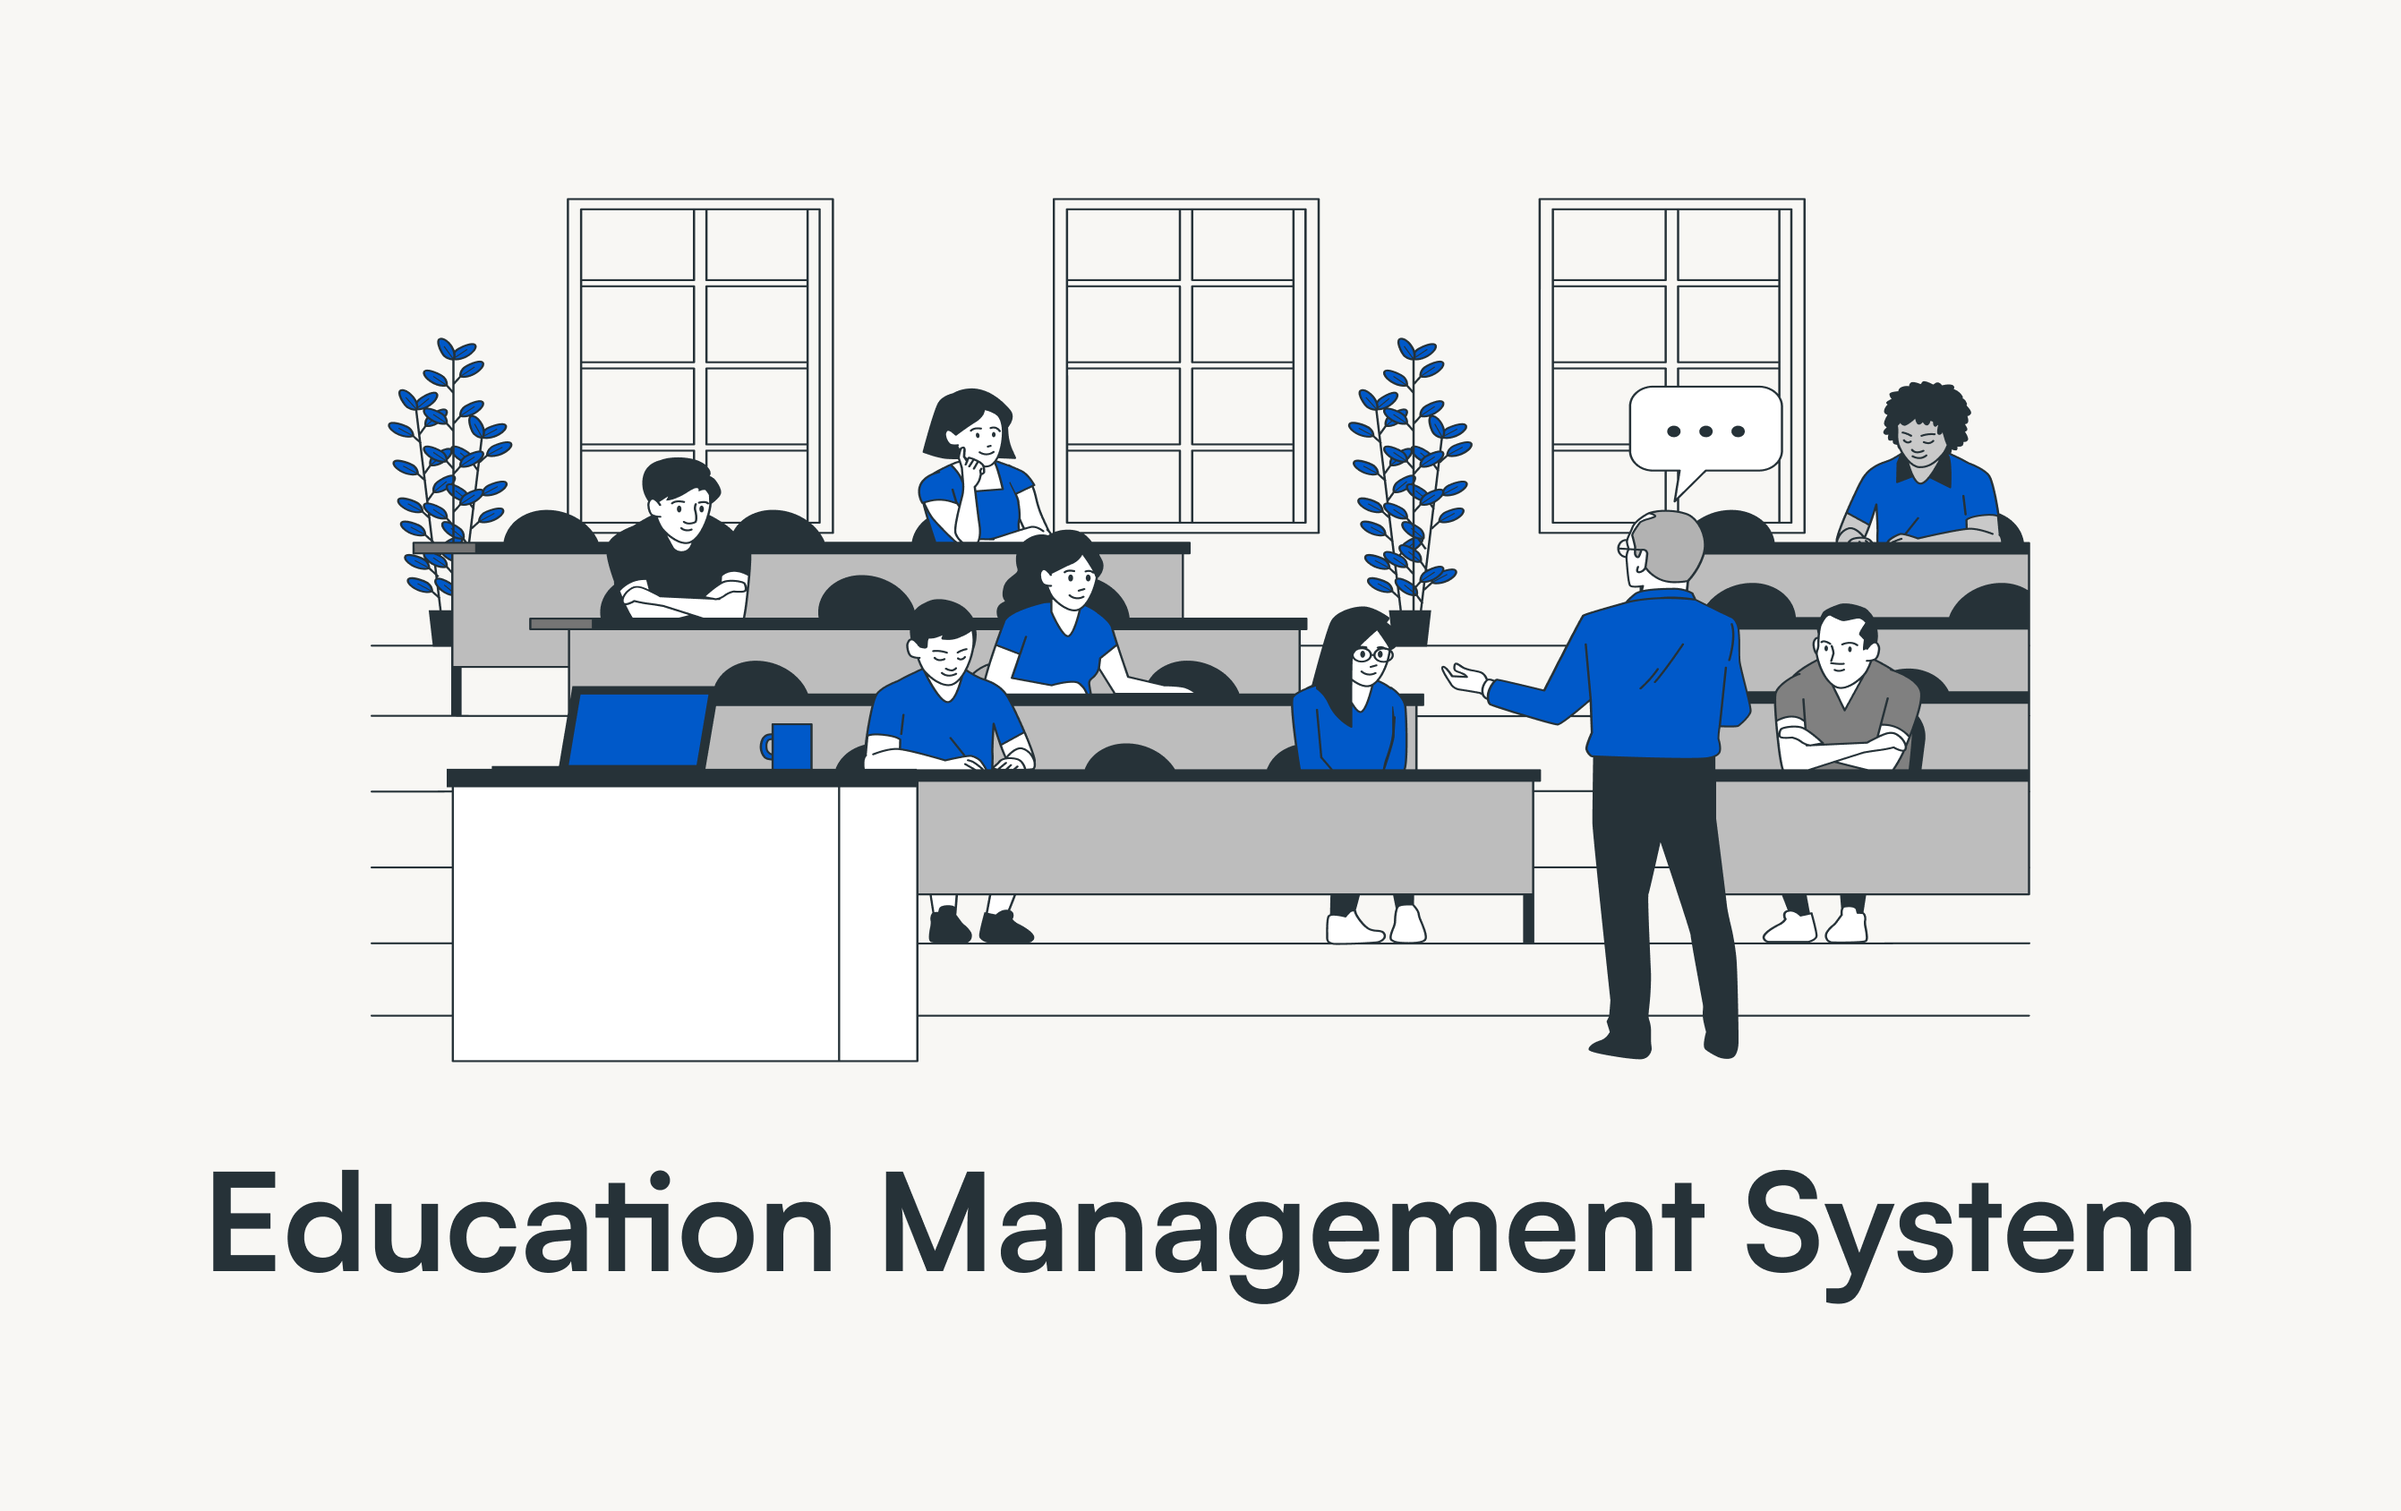
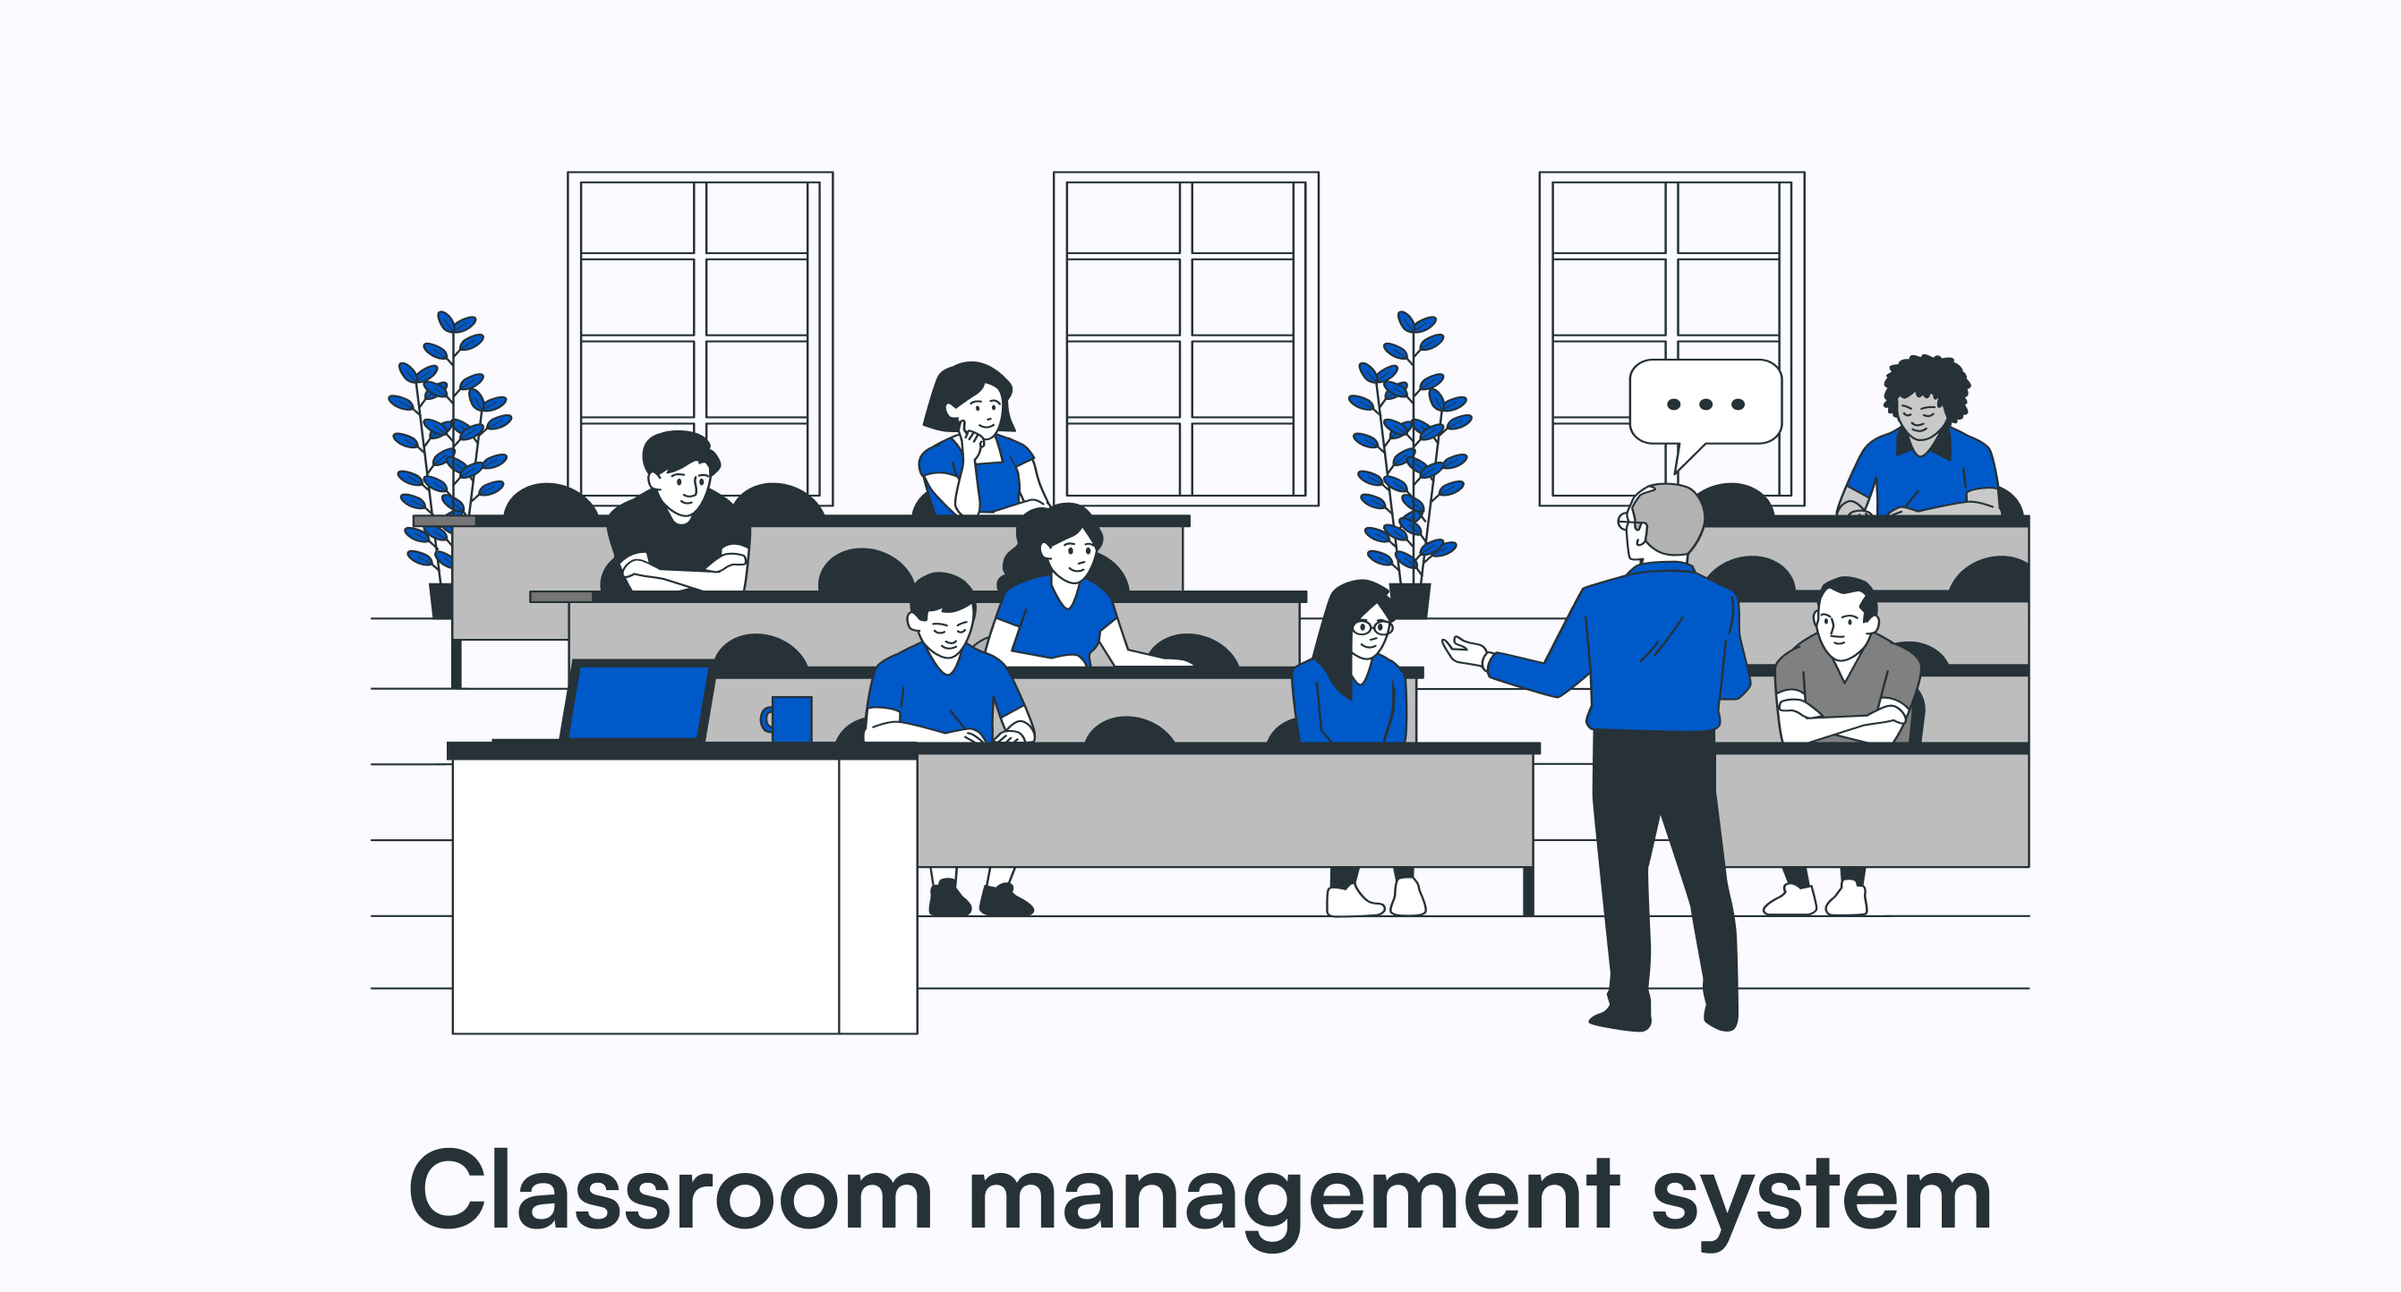
Checking bullet points

diff --git a/projects/campushub_mini.html b/projects/campushub_mini.html
@@ -281,7 +281,7 @@
               management, leading to missed announcements, limited
               student-faculty collaboration, communication gaps and overall a
               poor management system. To challenge is to come up with a solution
-              that addresses the needs of the educational institutions
+              that addresses different needs of educational institutions.
             </p>
           </div>
           <div class="col-xs-12 col-sm-6">
@@ -292,6 +292,83 @@
             />
           </div>
         </div>
+
+        <div class="row">
+          <div class="col-xs-12 col-sm-6">
+            <h2>Design Process</h2>
+            <p>
+              I do not have a strict process, I instead have foundational design
+              principles I adhere to
+            </p>
+          </div>
+          <div class="col-xs-12 col-sm-6">
+            <img
+              class="introimage"
+              src="../assets/img/project images/CampusHub_mini/Campushub Design process.png"
+              alt="Education management system"
+            />
+          </div>
+        </div>
+
+        <div class="row">
+          <div class="col-xs-12">
+            <h2>Research</h2>
+            <p>
+              You can find all my research data in the detailed version, I have
+              presented only the insights here
+            </p>
+          </div>
+          <div class="col-xs-12">
+            <h2>Survey Insights</h2>
+
+            <ul style="list-style: decimal">
+              <li>
+                Colleges on an average use 4 different tools for carrying out
+                different tasks
+              </li>
+              <li>
+                Schools do not use much variety tools because most tasks are
+                offline
+              </li>
+              <li>
+                Even during Covid era(online classes), but much variety of tools
+                were not used in schools
+              </li>
+              <li>
+                Inefficient usage of tools, juggling multiple tools - a single
+                platform is required to carry out multiple activities
+              </li>
+            </ul>
+          </div>
+
+          <div class="col-xs-12">
+            <h2>Competitor Analysis</h2>
+            <img
+              src="../assets/img/project images/CampusHub_mini/Campushub competitors.png"
+              alt="competitors"
+            />
+
+            <ul style="list-style: decimal">
+              <li>
+                Colleges on an average use 4 different tools for carrying out
+                different tasks
+              </li>
+              <li>
+                Schools do not use much variety tools because most tasks are
+                offline
+              </li>
+              <li>
+                Even during Covid era(online classes), but much variety of tools
+                were not used in schools
+              </li>
+              <li>
+                Inefficient usage of tools, juggling multiple tools - a single
+                platform is required to carry out multiple activities
+              </li>
+            </ul>
+          </div>
+        </div>
+
         <!-- 
         <iframe
           class="figmaiframe"
@@ -306,12 +383,12 @@
         ></iframe> -->
 
         <div class="row">
-          <div class="col-xs-12 col-sm-6">
+          <div class="col-xs-12">
             <p class="intro-text">
               <br />Thank you for viewing my work. Like I mentioned earlier,
               this is just a short version. I have a detailed story on how I
-              approached my project, with all the missteps and mistakes attached
-              in the link below
+              approached my project, with all the missteps and mistakes in the
+              link below
               <br />
               <a href="../projects/campushub.html" style="font-size: large"
                 >Click here to read my story on how I did this project ⟶</a

diff --git a/projects/aadhaar_mini.html b/projects/aadhaar_mini.html
@@ -269,7 +269,7 @@
         </div>
 
         <div class="row">
-          <div class="col-xs-12 col-sm-6">
+          <div class="col-xs-12">
             <p class="intro-text">
               <br />Thank you for viewing my work. Like I mentioned earlier,
               this is just a short version. I have a detailed case study on how

diff --git a/assets/css/style.min.css b/assets/css/style.min.css
@@ -834,7 +834,7 @@ iframe {
   background: #9299e3;
 }
 .campushub {
-  background: #f8f7f4;
+  background: #fafaff;
 }
 
 .figmaiframe {
